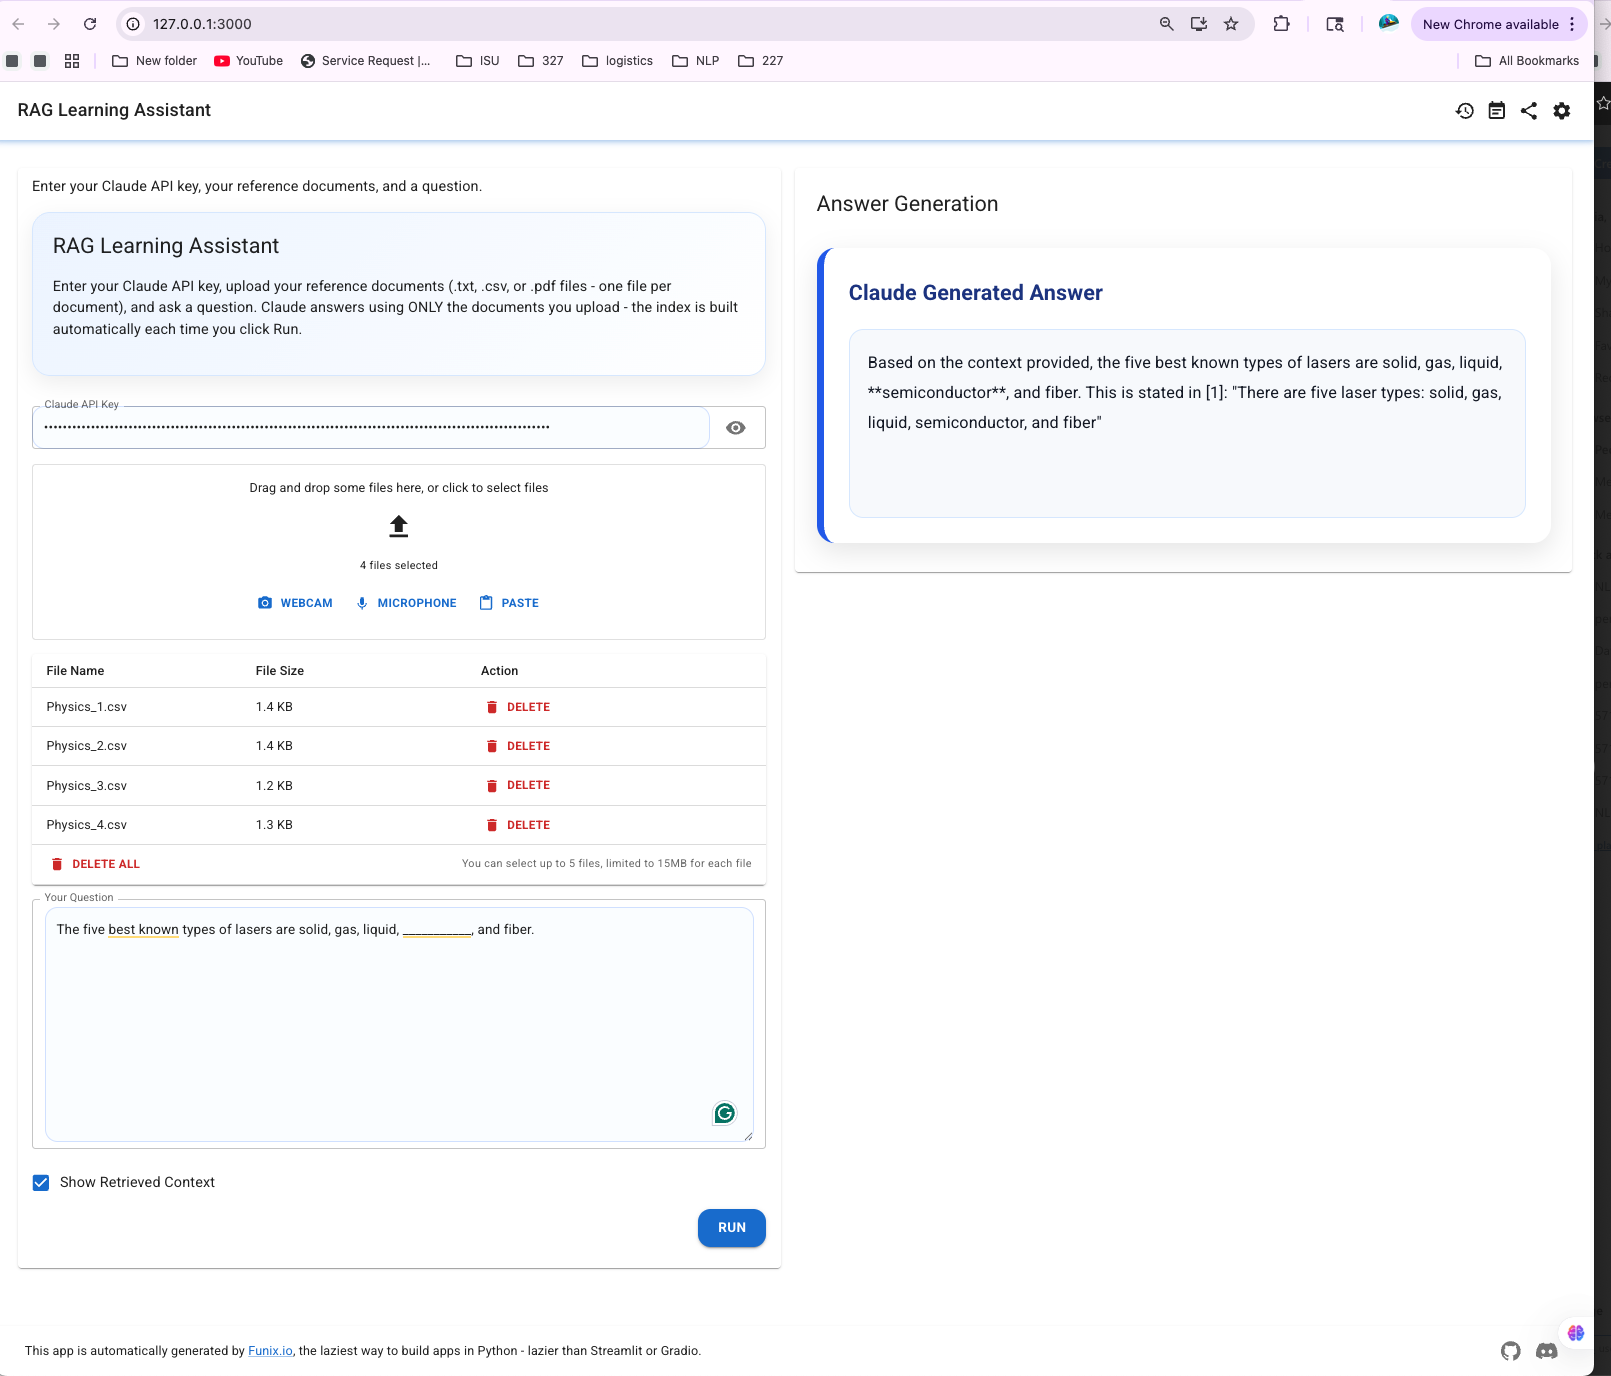
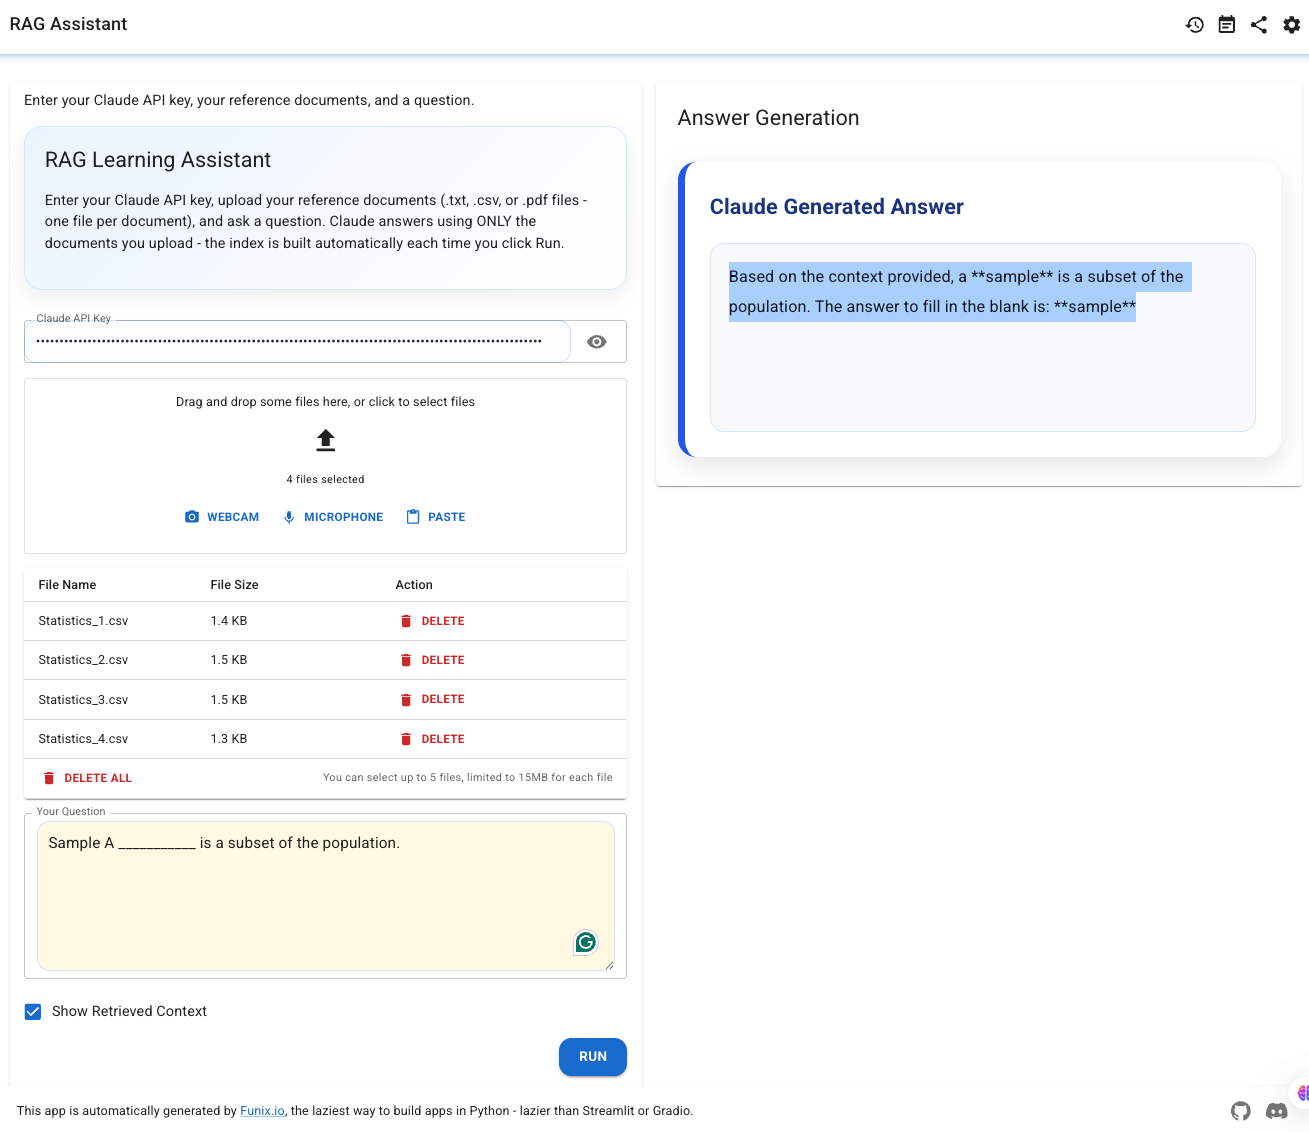
updated readme

Changed region(s): [[0.0, 0.0928, 0.9167, 0.9894], [0.0, 0.0, 1.0, 1.0]]

diff --git a/README.md b/README.md
@@ -147,6 +147,11 @@ To stop the app: `Ctrl+C` in the terminal running it.
 ├── .env.example
 └── README.md
 ```
+## Video Demo
+
+A step-by-step video walkthrough of this RAG Assistant project is available here:
+
+[Watch the RAG Assistant Demo on YouTube](https://youtu.be/rxzythx-gAU)
 
 ## Notes 
 
